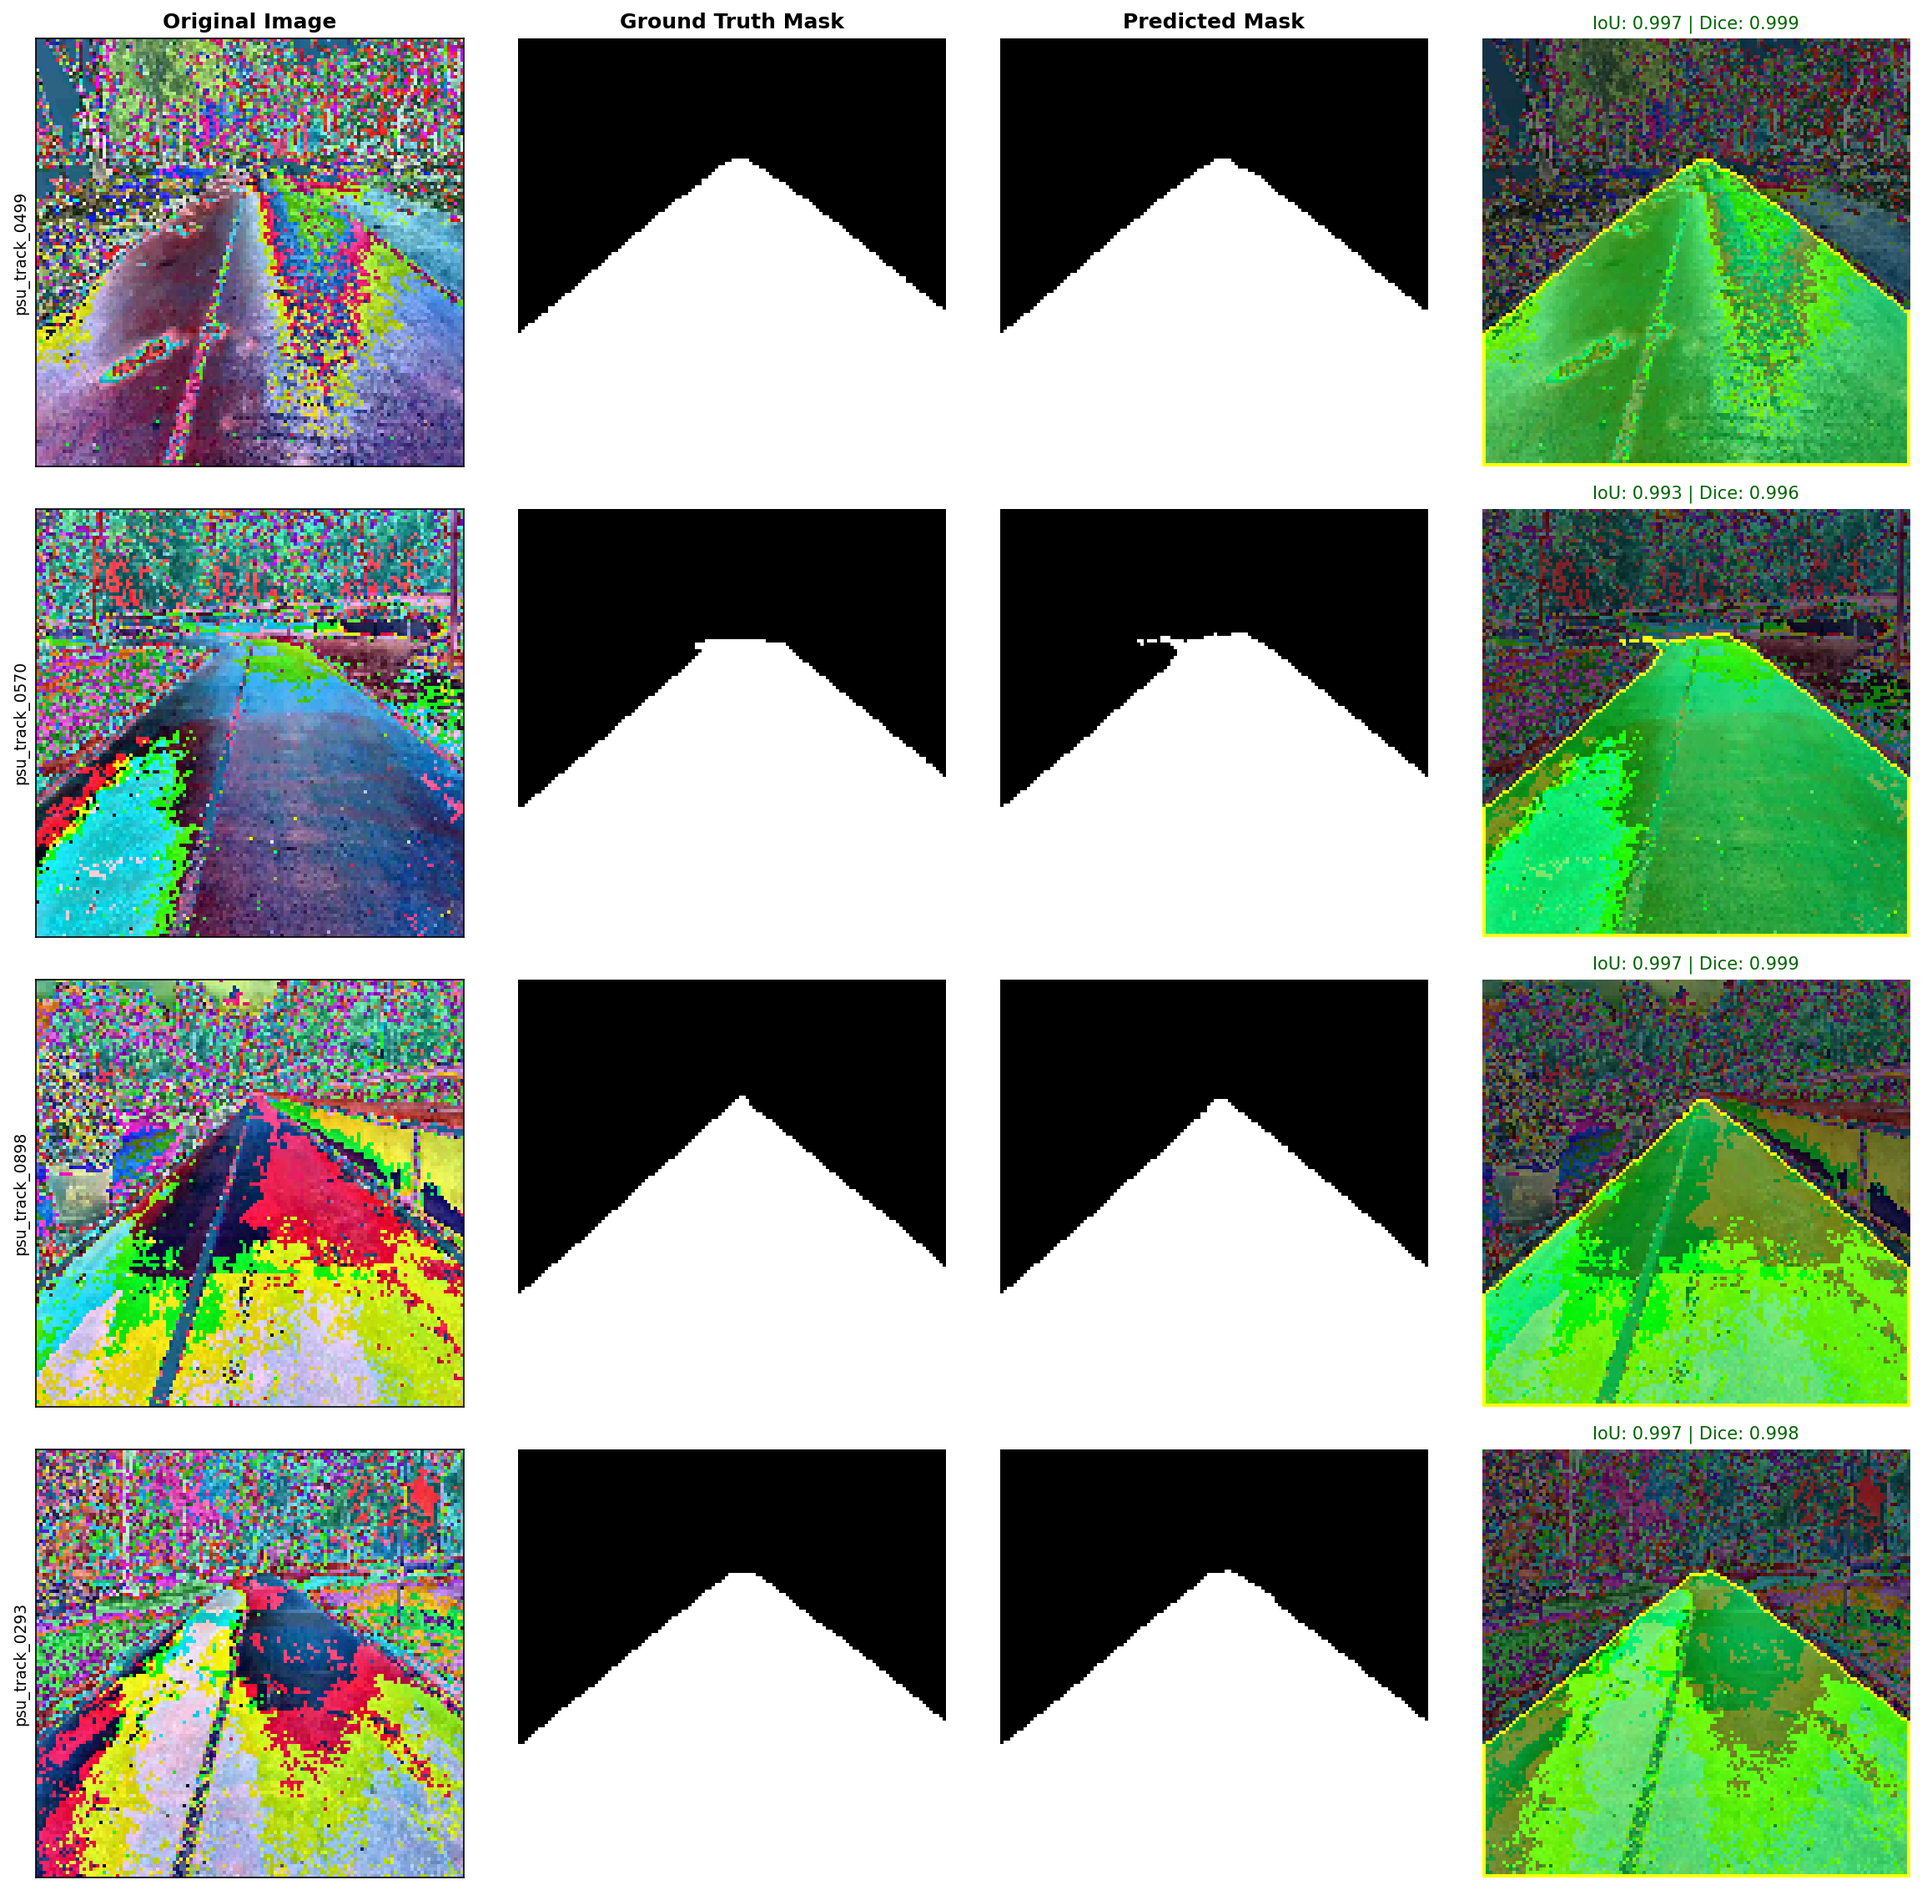
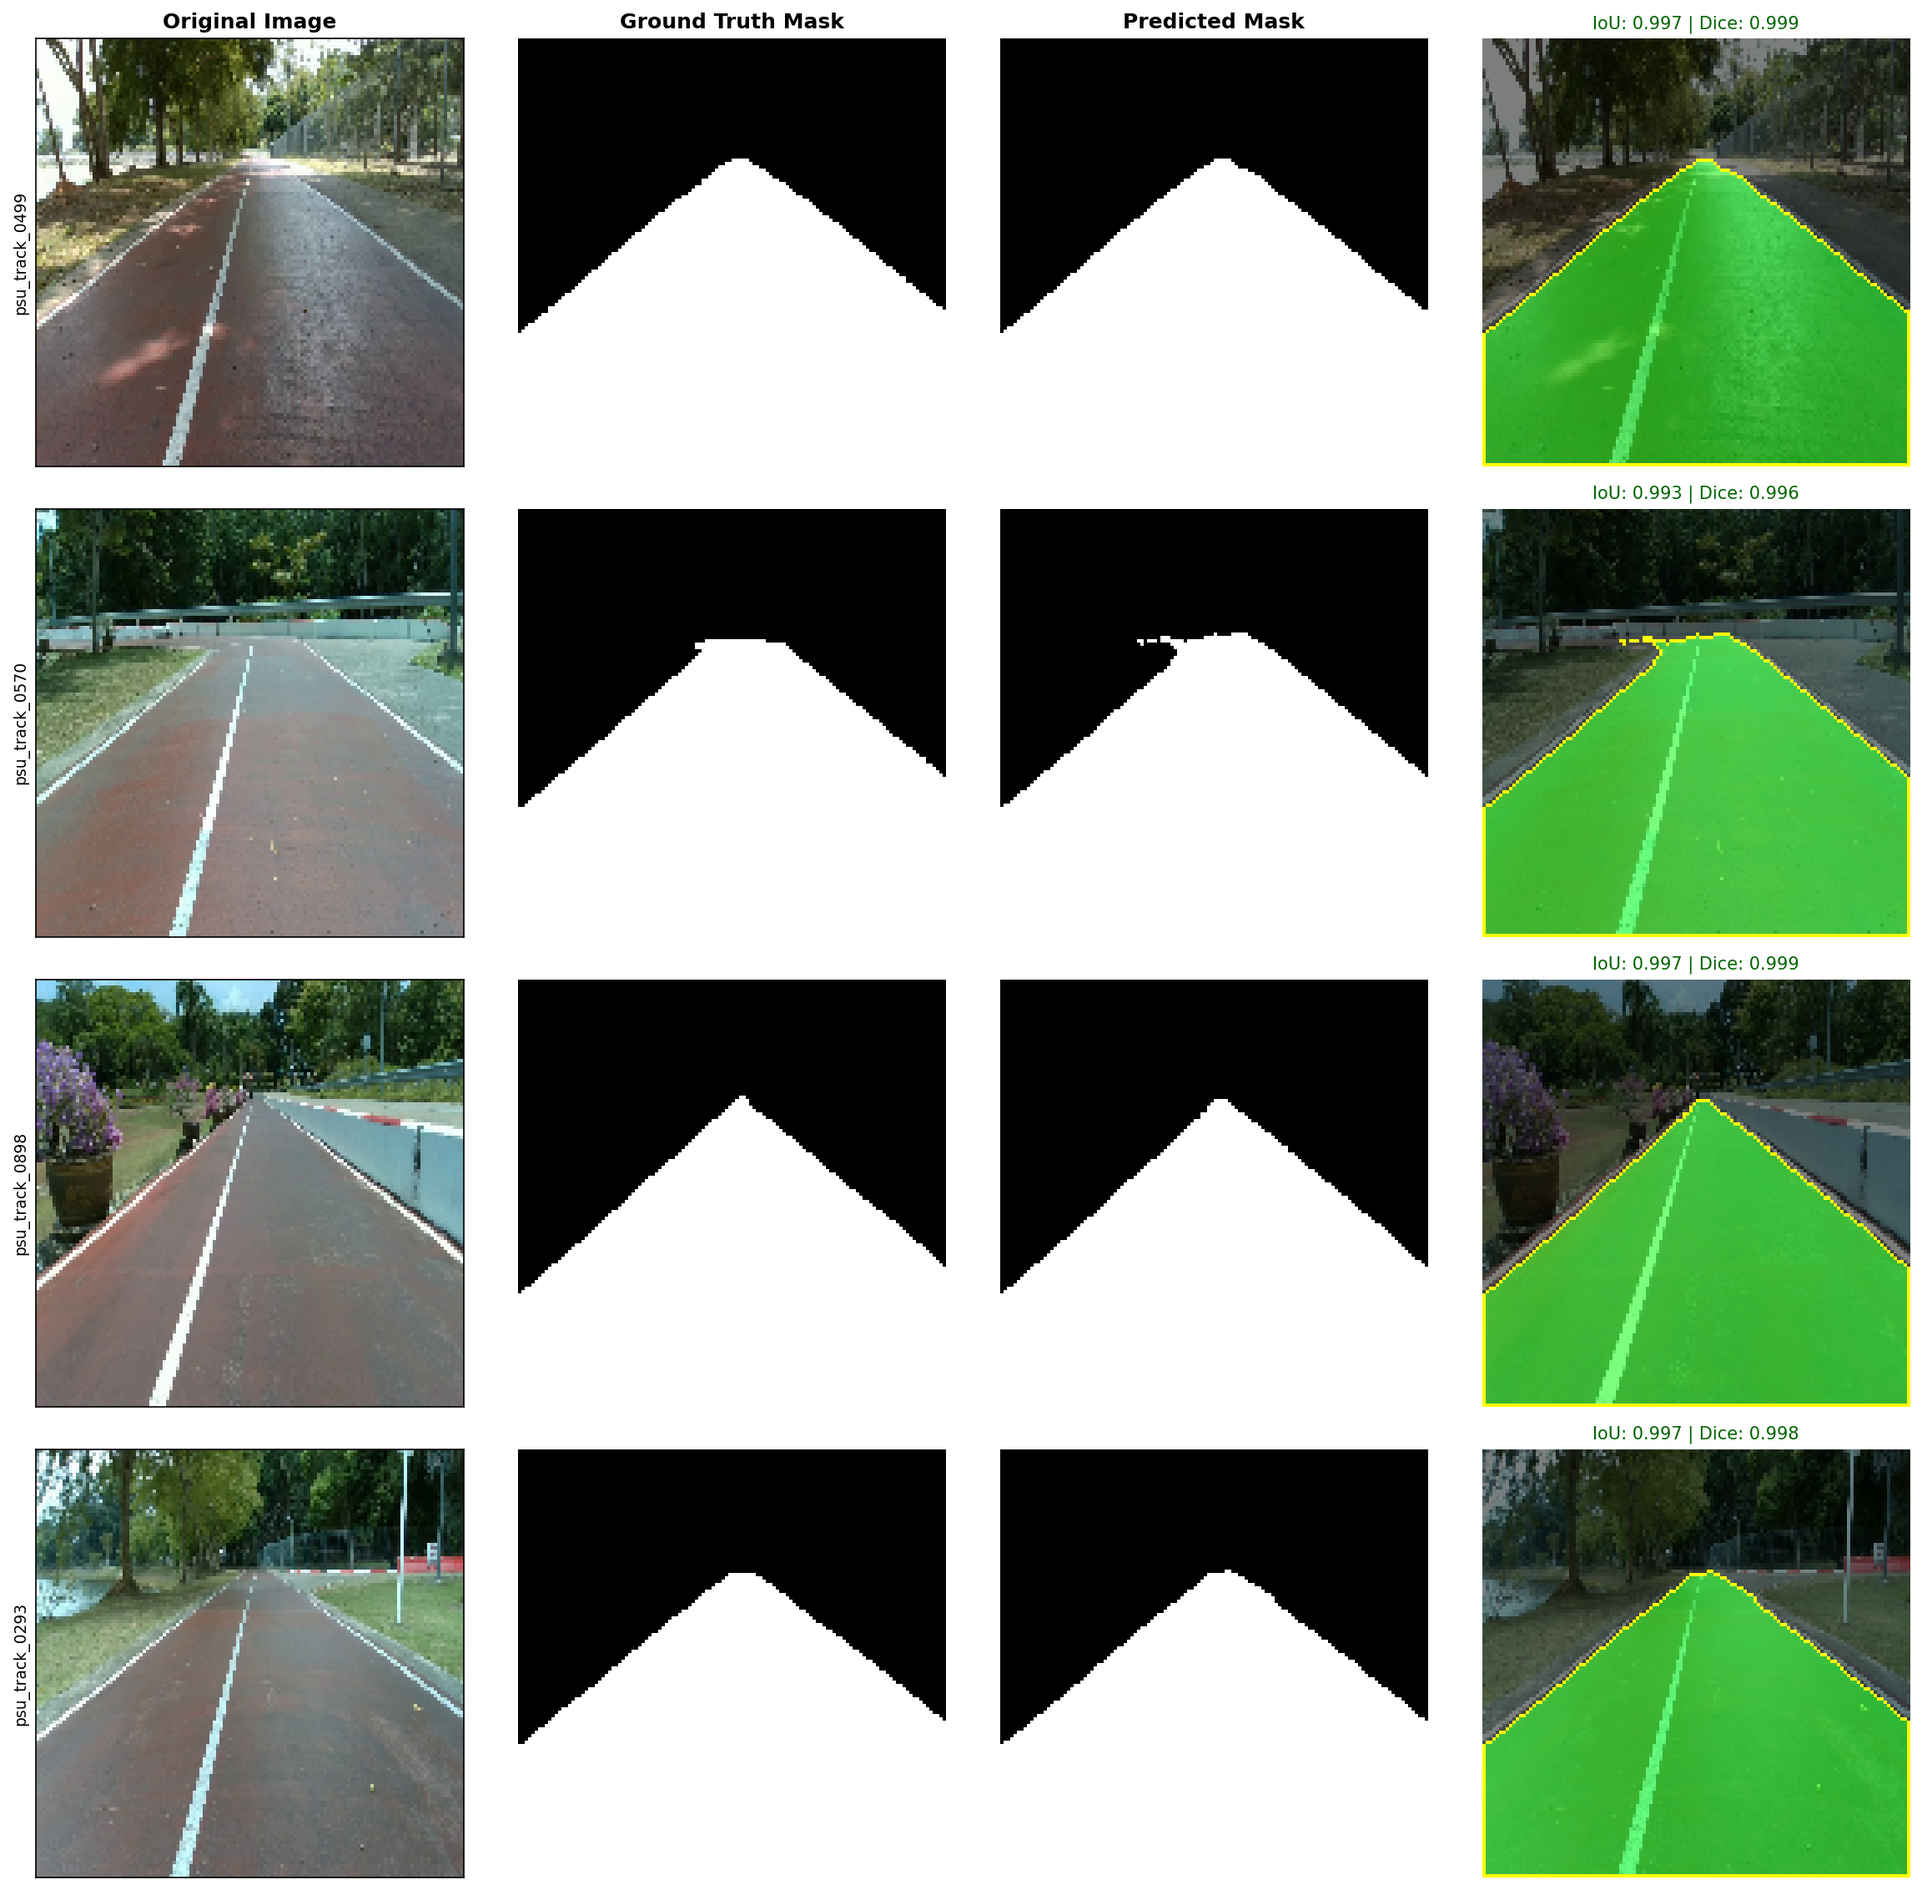
Fix RGB denormalization in predict.py and regenerate high-clarity natural color visual snapshots

diff --git a/predict.py b/predict.py
@@ -55,7 +55,11 @@ def run_inference_and_visualize(model, dataloader, device, output_dir="results/s
                     break
 
                 img_name = img_names[i]
-                img_rgb = (images_cpu[i].transpose(1, 2, 0) * 255).astype(np.uint8)
+                # Denormalize ImageNet normalization to recover true natural RGB colors
+                mean = np.array([0.485, 0.456, 0.406], dtype=np.float32)
+                std = np.array([0.229, 0.224, 0.225], dtype=np.float32)
+                img_denorm = (images_cpu[i].transpose(1, 2, 0) * std + mean) * 255.0
+                img_rgb = np.clip(img_denorm, 0, 255).astype(np.uint8)
                 gt_mask = (masks_cpu[i, 0] * 255).astype(np.uint8)
                 pred_prob = preds[i, 0]
                 pred_mask = ((pred_prob > threshold) * 255).astype(np.uint8)
